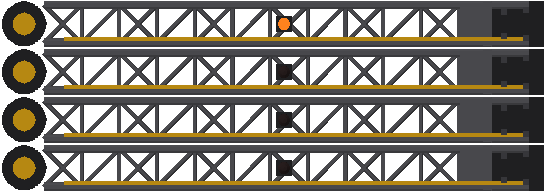
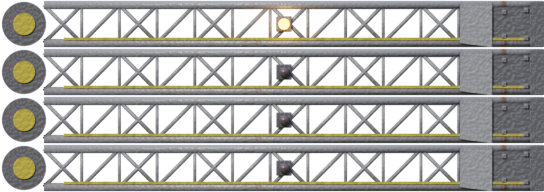
Rebuild sprites with blinking lamp and better looking joints

diff --git a/leapfrog-game/src/luainterface.cpp b/leapfrog-game/src/luainterface.cpp
@@ -252,7 +252,7 @@ static int c_registerEventHandler(lua_State *L)
    }
    else
    {
-      std::string msg = "ERROR: The object " + actorName + " could not be found when registratimg event handler. ";
+      std::string msg = "ERROR: The object " + actorName + " could not be found when registrating event handler. ";
 
       g_MessageDisplay->initMessage(true, msg.c_str(), "ERROR", 0, 0);
    }
